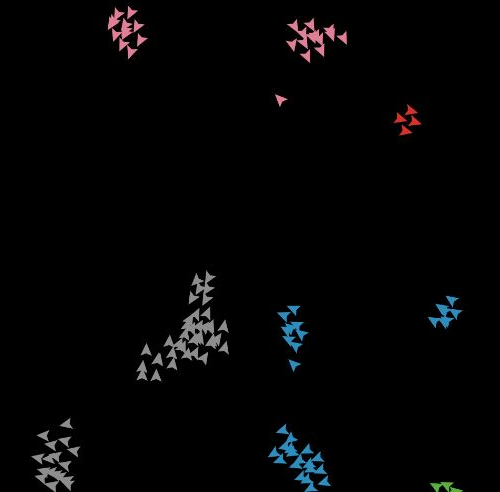
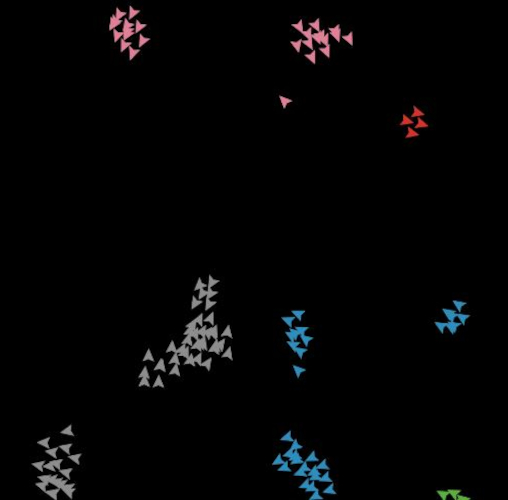
Rescale images and fix email formatting in contacts

diff --git a/index.html b/index.html
@@ -56,7 +56,7 @@
 								<p>Please take a look at the projects I have worked on in the following skill sets</p>
 							</div>
 						</header>
-						<!-- One -->
+						<!-- Robotics -->
 							<section id="one" class="wrapper">
 								<div class="inner">
 									<a href="Robotics.html" class="image"><img src="images/ocapmk3.png" alt="An image of a underwater robot I designed deployed in an ocean envromnet climbing along a biofouled rope and observing fish swimming by" /></a>
@@ -67,7 +67,7 @@
 									</div>
 								</div>
 
-						<!-- Four -->
+						<!-- UI/UX -->
 							<section id="one" class="wrapper">
 								<div class="inner">
 									<a href="UxDesign.html" class="image"><img src="images/ocapmk3.png" alt="An image of a website i designed showcasing a robotic turret" /></a>
@@ -93,8 +93,8 @@
 									Incline Villave, NV 89451
 								</li>
 								<li class="icon solid fa-phone">(775) 420-2241</li>
-								<li class="icon solid fa-envelope"><a href="#">tkcnovak@gmail.com</a></li>
-								<li class="icon solid fa-envelope"><a href="#">tnovak@olin.edu</a></li>
+								<li class="icon solid fa-envelope"><a href="#">tkcnovak@gmail.com</a><br/>
+								<a href="#">tnovak@olin.edu</a></li>
 							</ul>
 							<ul class="copyright">
 								<li>&copy; Timothy Novak. All rights reserved.</li><li>Design: <a href="http://html5up.net">HTML5 UP</a></li>

diff --git a/Robotics.html b/Robotics.html
@@ -93,8 +93,8 @@
 									Incline Villave, NV 89451
 								</li>
 								<li class="icon solid fa-phone">(775) 420-2241</li>
-								<li class="icon solid fa-envelope"><a href="#">tkcnovak@gmail.com</a></li>
-								<li class="icon solid fa-envelope"><a href="#">tnovak@olin.edu</a></li>
+								<li class="icon solid fa-envelope"><a href="#">tkcnovak@gmail.com</a><br/>
+								<a href="#">tnovak@olin.edu</a></li>
 							</ul>
 							<ul class="copyright">
 								<li>&copy; Timothy Novak. All rights reserved.</li><li>Design: <a href="http://html5up.net">HTML5 UP</a></li>

diff --git a/UxDesign.html b/UxDesign.html
@@ -89,8 +89,8 @@
 									Incline Villave, NV 89451
 								</li>
 								<li class="icon solid fa-phone">(775) 420-2241</li>
-								<li class="icon solid fa-envelope"><a href="#">tkcnovak@gmail.com</a></li>
-								<li class="icon solid fa-envelope"><a href="#">tnovak@olin.edu</a></li>
+								<li class="icon solid fa-envelope"><a href="#">tkcnovak@gmail.com</a><br/>
+								<a href="#">tnovak@olin.edu</a></li>
 							</ul>
 							<ul class="copyright">
 								<li>&copy; Timothy Novak. All rights reserved.</li><li>Design: <a href="http://html5up.net">HTML5 UP</a></li>
